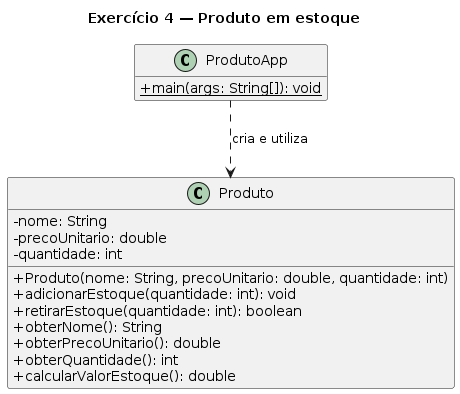
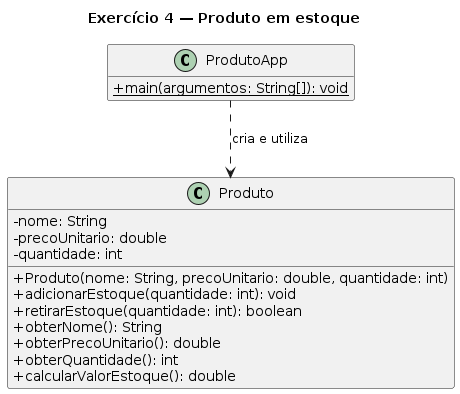
melhorias

Changed region(s): [[0.2435, 0.1827, 0.7609, 0.2437]]

diff --git a/classroom/03-classes/README.md b/classroom/03-classes/README.md
@@ -4,133 +4,218 @@ Resolva os exercícios para praticar **abstração**, **classes**, **objetos** e
 
 ## Orientações
 
-- Crie um arquivo para cada classe pública indicada.
-- Mantenha os atributos de instância `private` e use construtores para estabelecer estados válidos.
-- Coloque validações e regras de negócio na classe do domínio, não na classe `App`.
-- Crie métodos de consulta somente para informações consultadas e métodos de alteração apenas quando a alteração direta fizer sentido.
-- Em cada exercício, crie a classe `App` indicada e teste casos válidos, inválidos e de fronteira.
+- Leia os requisitos de negócio antes de iniciar a implementação.
+- Use o diagrama para identificar nomes, tipos e visibilidades.
+- Mantenha as regras de negócio na classe do domínio, não na classe de aplicação.
+- Preserve um estado válido ao construir e modificar objetos.
+- Em cada exercício, use a classe `App` indicada para demonstrar operações válidas, inválidas e casos de fronteira.
 
 ## Parte I — classes, atributos e objetos
 
 ### 1. Iluminação de uma loja
 
-Uma loja controla separadamente a iluminação de seus setores. Crie `IluminacaoLoja` com `setor` (`String`), `potenciaEmWatts` (`double`) e `ligada` (`boolean`). O construtor adota `"Setor não informado"` para setor vazio e `10.0` para potência não positiva. Toda iluminação começa desligada. Implemente `ligar()`, `desligar()`, `estaLigada()` e os métodos de consulta necessários.
+Uma loja controla separadamente a iluminação de seus setores para evitar que áreas sem utilização permaneçam iluminadas.
 
-Em `IluminacaoLojaApp`, crie as iluminações da vitrine e do estoque, ligue somente a vitrine e apresente o estado de ambas.
+#### Requisitos de negócio
 
-**Conceitos principais:** classe, objeto, construtor, estado próprio e métodos de instância.
+- Cada iluminação deve identificar o setor e sua potência em watts.
+- Para setor não informado, adote `"Setor não informado"`; para potência não positiva, adote `10.0 W`.
+- Toda iluminação deve começar desligada e permitir operações para ligar e desligar.
+- Alterar uma iluminação não deve afetar as demais.
+
+#### Requisitos técnicos
 
 ![Diagrama de classes do controle de iluminação](doc/classes/01-iluminacao-loja.png)
 
-```text
-Vitrine: LIGADA
-Estoque: DESLIGADA
-```
+Em `IluminacaoLojaApp`, represente a vitrine e o estoque, ligue somente a vitrine e apresente o estado de ambas.
+
+**Conceitos principais:** classe, objeto, construtor, estado próprio e métodos de instância.
 
 ### 2. Orçamento de piso
 
-Uma empresa precisa estimar o piso de ambientes retangulares. Crie `OrcamentoPiso` com `comprimento`, `largura` e `precoPorMetroQuadrado` (`double`). O construtor adota `1.0` para dimensões não positivas e lança `IllegalArgumentException` para preço não positivo. Implemente métodos de consulta, `calcularArea()`, `calcularComprimentoRodape()` e `calcularPrecoTotal()`, mas não métodos de alteração.
+Uma empresa de reformas precisa calcular a quantidade de piso e de rodapé necessária para ambientes retangulares, além do preço do material.
 
-Em `OrcamentoPisoApp`, apresente área, metragem de rodapé e preço de um cômodo de `5.0 m × 3.0 m`, com piso a `R$ 80.00/m²`. Demonstre também uma dimensão inválida.
+#### Requisitos de negócio
 
-**Conceitos principais:** normalização de argumentos e métodos com retorno.
+- Cada orçamento deve registrar comprimento, largura e preço por metro quadrado.
+- Dimensões não positivas devem ser normalizadas para `1.0 m`; preço negativo, para zero.
+- O orçamento deve informar a área, o comprimento do rodapé e o preço total.
+- Os valores do orçamento não devem ser alterados depois de sua criação.
+
+#### Requisitos técnicos
 
 ![Diagrama de classes do orçamento de piso](doc/classes/02-orcamento-piso.png)
 
+Em `OrcamentoPisoApp`, apresente um cômodo de `5.0 m × 3.0 m`, com piso a `R$ 80.00/m²`, e outro com uma dimensão inválida.
+
+**Conceitos principais:** normalização de argumentos e métodos que produzem resultados.
+
 ### 3. Expositor refrigerado
 
-Um mercado monitora expositores que devem permanecer entre `2.0 °C` e `8.0 °C`. Crie `ExpositorRefrigerado` com `temperatura` (`double`). Ofereça um construtor sem parâmetros, que inicia em `4.0 °C`, e outro com a temperatura inicial. O primeiro delega ao segundo com `this(...)`. Implemente `definirTemperatura()`, `obterTemperatura()` e `estaNaFaixaSegura()`. Valores inferiores a `-273.15 °C` são ignorados e o estado anterior é mantido.
+Um mercado monitora expositores refrigerados que devem permanecer entre `2.0 °C` e `8.0 °C`.
 
-Em `ExpositorRefrigeradoApp`, teste os dois construtores, uma leitura segura, outra fora da faixa e uma alteração fisicamente inválida.
+#### Requisitos de negócio
 
-**Conceitos principais:** sobrecarga, delegação com `this(...)` e preservação do estado.
+- Um expositor criado sem temperatura informada deve iniciar em `4.0 °C`.
+- Deve ser possível informar outra temperatura inicial.
+- Quando a temperatura inicial for inferior ao zero absoluto (`-273.15 °C`), adote `4.0 °C`.
+- Leituras posteriores inferiores ao zero absoluto devem ser ignoradas sem modificar o estado anterior.
+- O expositor deve informar se está na faixa segura de conservação.
+
+#### Requisitos técnicos
 
 ![Diagrama de classes do expositor refrigerado](doc/classes/03-expositor-refrigerado.png)
+
+Em `ExpositorRefrigeradoApp`, demonstre uma leitura segura, outra fora da faixa, um ajuste válido e uma leitura fisicamente inválida.
+
+**Conceitos principais:** sobrecarga, delegação com `this(...)` e preservação do estado.
 
 ## Parte II — encapsulamento e regras de negócio
 
 ### 4. Produto em estoque
 
-Crie `Produto` com `nome` (`String`), `precoUnitario` (`double`) e `quantidade` (`int`). Nome vazio, preço ou quantidade inicial negativos provocam `IllegalArgumentException`.
+Uma papelaria precisa controlar entradas e retiradas de produtos sem permitir inconsistências no estoque.
 
-- `adicionarEstoque(int quantidade)` acrescenta somente quantidades positivas.
-- `retirarEstoque(int quantidade)` retira somente uma quantidade positiva disponível e informa sucesso com `boolean`.
-- `calcularValorEstoque()` devolve `precoUnitario × quantidade`.
-- Permita consultas, mas não crie `definirQuantidade`.
+#### Requisitos de negócio
 
-Em `ProdutoApp`, teste entrada, retirada válida e retirada maior que o estoque.
+- Todo produto deve possuir nome, preço unitário e quantidade disponível.
+- Para nome não informado, adote `"Produto sem nome"`; preços ou quantidades iniciais negativas devem ser normalizados para zero.
+- Entradas devem aceitar somente quantidades positivas.
+- Uma retirada exige quantidade positiva e estoque suficiente.
+- Uma operação recusada não deve alterar o estoque.
+- A quantidade não pode ser alterada diretamente por código externo.
 
-**Conceitos principais:** encapsulamento, exceção e invariante `quantidade >= 0`.
+#### Requisitos técnicos
 
 ![Diagrama de classes do controle de estoque](doc/classes/04-produto.png)
 
+Em `ProdutoApp`, demonstre uma entrada, uma retirada válida e uma retirada maior que o estoque disponível.
+
+**Conceitos principais:** abstração, encapsulamento, invariante `quantidade >= 0` e métodos de negócio.
+
 ### 5. Ingresso de cinema
 
-Crie `IngressoCinema` com `movieTitle` (`String`), `fullPrice` (`double`) e `sold` (`boolean`). Título vazio e preço não positivo provocam `IllegalArgumentException`. Todo ingresso começa disponível. `sell(boolean halfPrice)` vende apenas se disponível e devolve o preço inteiro ou sua metade; se já vendido, devolve `0.0`. Implemente `isSold()`.
+Um cinema precisa impedir que o mesmo ingresso seja vendido mais de uma vez e aplicar corretamente a meia-entrada.
 
-Em `IngressoCinemaApp`, venda um ingresso de meia-entrada e tente vendê-lo novamente.
+#### Requisitos de negócio
 
-**Conceitos principais:** abstração, transição de estado e regra protegida pelo objeto.
+- Cada ingresso deve identificar o filme e o preço da entrada inteira.
+- Para título não informado, adote `"Filme não informado"`; preço não positivo deve ser normalizado para `1.0`.
+- Todo ingresso deve começar disponível.
+- A primeira venda deve marcar o ingresso como vendido e devolver o valor cobrado.
+- A meia-entrada custa metade do preço da entrada inteira.
+- Novas tentativas de venda devem ser recusadas sem alterar o estado.
+
+#### Requisitos técnicos
 
 ![Diagrama de classes da venda de ingresso](doc/classes/05-ingresso-cinema.png)
 
+Em `IngressoCinemaApp`, venda um ingresso de meia-entrada e tente vendê-lo novamente.
+
+**Conceitos principais:** abstração, transição de estado e proteção de regras pelo objeto.
+
 ### 6. Elevador
 
-Crie `Elevador` com `andarAtual`, `ultimoAndar`, `capacidade` e `quantidadePessoas` (`int`). O construtor recebe último andar e capacidade positivos ou lança `IllegalArgumentException`. O elevador começa vazio no térreo (`0`).
+Um edifício precisa controlar a movimentação e a ocupação de seu elevador, respeitando seus limites físicos.
 
-- `entrar(int quantidade)` respeita quantidade positiva e capacidade.
-- `sair(int quantidade)` respeita quantidade positiva e ocupação.
-- `subir()` não ultrapassa o último andar; `descer()` não passa do térreo.
-- Os quatro métodos informam sucesso ou recusa com `boolean`.
+#### Requisitos de negócio
 
-Em `ElevadorApp`, demonstre todos os limites, usando laços quando apropriado.
+- O edifício deve possuir ao menos um andar acima do térreo e o elevador deve admitir ao menos uma pessoa.
+- Valores não positivos para último andar ou capacidade devem ser normalizados para `1`.
+- O elevador deve começar vazio e no térreo.
+- A entrada não pode ultrapassar a capacidade e a saída não pode superar a ocupação.
+- Quantidades não positivas devem ser recusadas.
+- O elevador não pode ultrapassar o último andar nem descer abaixo do térreo.
+- Operações recusadas não devem alterar o estado.
 
-**Conceitos principais:** invariantes, controle de estado, seleção e iteração.
+#### Requisitos técnicos
 
 ![Diagrama de classes do elevador](doc/classes/06-elevador.png)
 
+Em `ElevadorApp`, demonstre os limites de lotação, térreo e último andar, usando laços quando apropriado.
+
+**Conceitos principais:** invariantes, controle de estado, seleção e iteração.
+
 ### 7. Programa de fidelidade
 
-Uma empresa oferece pontos aos clientes cadastrados. Crie `ClienteFidelidade` com `nome` (`String`), `pontos` (`int`) e `ativo` (`boolean`). Normalize nome vazio para `"Cliente não identificado"`. Todo cliente começa sem pontos e ativo. `acumularPontos(int quantidade)` adiciona pontos positivos a um cadastro ativo. `resgatarPontos(int quantidade)` resgata somente uma quantidade positiva disponível e informa sucesso com `boolean`. `desativar()` desativa o cadastro; depois disso, não é possível acumular nem resgatar pontos.
+Uma empresa oferece pontos aos clientes cadastrados e permite utilizá-los em benefícios.
 
-Em `ClienteFidelidadeApp`, crie dois clientes, registre pontos, realize um resgate válido, tente um resgate sem saldo e demonstre uma operação após a desativação.
+#### Requisitos de negócio
+
+- Para nome não informado, adote `"Cliente não identificado"`.
+- Todo cliente deve começar sem pontos e com cadastro ativo.
+- Somente quantidades positivas podem ser acumuladas.
+- Um resgate exige cadastro ativo e pontos suficientes.
+- Um resgate recusado não deve alterar a pontuação.
+- Depois da desativação, não é possível acumular nem resgatar pontos.
+
+#### Requisitos técnicos
+
+![Diagrama de classes do programa de fidelidade](doc/classes/07-cliente-fidelidade.png)
+
+Em `ClienteFidelidadeApp`, demonstre acúmulo, resgate válido, resgate sem saldo e uma operação após a desativação.
 
 **Conceitos principais:** identidade, independência entre objetos e comportamento condicionado ao estado.
-
-![Diagrama de classes do programa de fidelidade](doc/classes/07-loyalty-cliente.png)
 
 ## Parte III — referências e colaboração
 
 ### 8. Carteira e transferência
 
-Crie `Carteira` com `titular` (`String`) e `saldo` (`double`). Normalize proprietário vazio para `"Sem nome"` e saldo negativo para `0.0`. `adicionarDinheiro(double valor)` aceita valores positivos; `gastar(double valor)` gasta apenas um valor disponível; `transferirPara(Carteira destino, double valor)` transfere somente se o destino não é `null`, não é `this` e há saldo. Os dois últimos informam sucesso com `boolean`. Não crie `definirSaldo`.
+Uma carteira digital deve controlar o saldo de seu titular e permitir transferências seguras.
 
-Em `CarteiraApp`, demonstre uma transferência válida, outra sem saldo e outra para `null`.
+#### Requisitos de negócio
 
-**Conceitos principais:** colaboração, parâmetro de tipo por referência, `this` e encapsulamento.
+- Para titular não informado, adote `"Sem nome"`; saldo inicial negativo deve ser normalizado para zero.
+- Somente valores positivos podem ser adicionados ou gastos.
+- Um gasto não pode ultrapassar o saldo disponível.
+- Uma transferência exige destino existente, diferente da própria carteira, e saldo suficiente.
+- Uma transferência recusada não deve modificar nenhuma carteira.
+- O saldo não pode ser alterado diretamente por código externo.
+
+#### Requisitos técnicos
 
 ![Diagrama de classes da carteira e transferência](doc/classes/08-carteira.png)
 
-### 9. Duas referências, um objeto
+Em `CarteiraApp`, demonstre uma transferência válida, outra sem saldo suficiente e outra sem carteira de destino.
 
-Use `ClienteFidelidade` do exercício 7. Em `ClienteFidelidadeReferenciaApp`: guarde um cliente em `referenciaOriginal`; atribua-o a `outraReferencia`; credite pontos por `outraReferencia` e consulte-os por `referenciaOriginal`; crie `static void concederBonusPromocional(ClienteFidelidade cliente, int pontos)`; em outro método, atribua `new ClienteFidelidade(...)` ao parâmetro e observe se `referenciaOriginal` muda. Explique os resultados em um comentário.
+**Conceitos principais:** colaboração entre objetos, `this`, encapsulamento e parâmetros de tipos por referência.
 
-**Conceitos principais:** aliases e passagem por valor de uma referência.
+### 9. Duas referências, um cliente
+
+Uma promoção credita pontos em um cliente já cadastrado. O sistema precisa considerar quando variáveis e parâmetros alcançam o mesmo objeto.
+
+#### Requisitos de negócio
+
+- Um bônus promocional deve atualizar o cadastro recebido pelo método.
+- A atualização deve ser observada por qualquer variável que alcance o mesmo cliente.
+- Substituir apenas o parâmetro local por outro cliente não deve trocar a referência mantida pelo chamador.
+
+#### Requisitos técnicos
 
 ![Diagrama de classes das referências de cliente](doc/classes/09-referencia-cliente.png)
 
-```text
-Pontos creditados por outra referência: 100
-Pontos após bônus promocional: 150
-Nome após reatribuir o parâmetro: Lara
-```
+Em `ClienteFidelidadeReferenciaApp`, use `referenciaOriginal` e `outraReferencia` para o mesmo cliente, conceda um bônus e demonstre o efeito de reatribuir somente um parâmetro.
+
+**Conceitos principais:** compartilhamento de referências e passagem por valor de uma referência.
 
 ### 10. Máquina de vendas
 
-Crie `MaquinaVendas` para um item, com `nomeProduto` (`String`), `precoUnitario` (`double`), `estoque` (`int`) e `credito` (`double`). Nome vazio, preço não positivo ou estoque negativo provocam `IllegalArgumentException`. `inserirDinheiro(double valor)` aceita valores positivos; `comprar()` compra somente com estoque e crédito suficientes e informa sucesso com `boolean`; `cancelar()` devolve o crédito e o zera. Não ofereça métodos de alteração para estoque ou crédito.
+Uma máquina de vendas deve receber pagamentos, liberar produtos disponíveis e devolver o crédito não utilizado.
 
-Em `MaquinaVendasApp`, use `Scanner`, `switch` e um laço com opções para inserir dinheiro, comprar, cancelar e encerrar. Ao encerrar, devolva o crédito restante. Teste compras sem crédito e sem estoque.
+#### Requisitos de negócio
 
-**Conceitos principais:** modelagem completa, encapsulamento, invariantes, seleção e iteração.
+- Cada máquina deve informar produto, preço, estoque e crédito inserido.
+- Para produto não informado, adote `"Produto não informado"`; preço não positivo deve ser normalizado para `1.0` e estoque negativo para zero.
+- Somente valores positivos podem ser inseridos.
+- Uma compra exige estoque e crédito suficientes.
+- Uma compra realizada deve reduzir uma unidade e descontar o preço do crédito.
+- Uma compra recusada não deve alterar estoque nem crédito.
+- O cancelamento deve devolver todo o crédito e zerá-lo.
+
+#### Requisitos técnicos
 
 ![Diagrama de classes da máquina de vendas](doc/classes/10-maquina-vendas.png)
+
+Em `MaquinaVendasApp`, implemente um menu para inserir dinheiro, comprar, cancelar e encerrar. Ao encerrar, devolva o crédito restante. Demonstre compras sem crédito e sem estoque.
+
+**Conceitos principais:** modelagem completa, encapsulamento, invariantes, seleção e iteração.
